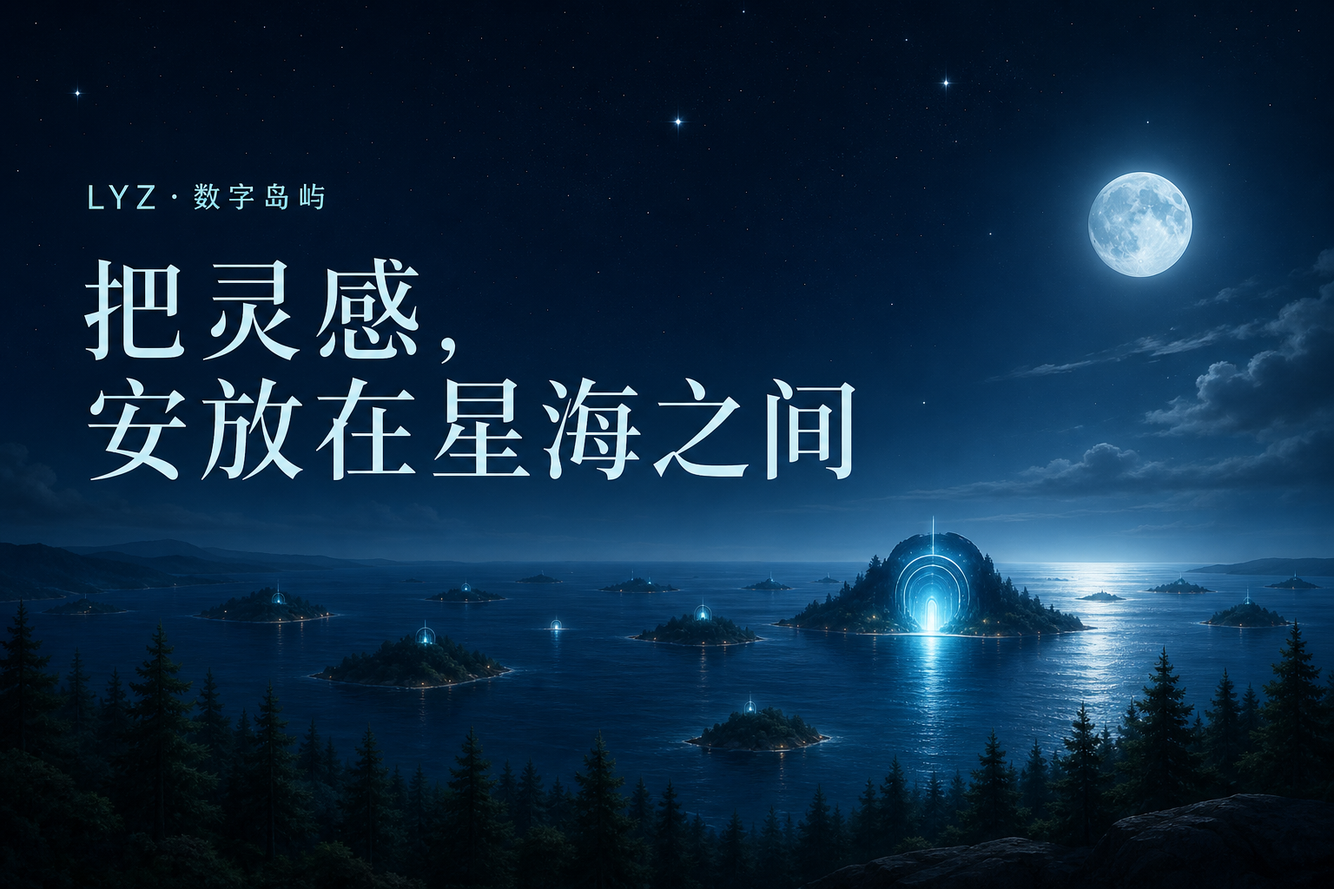
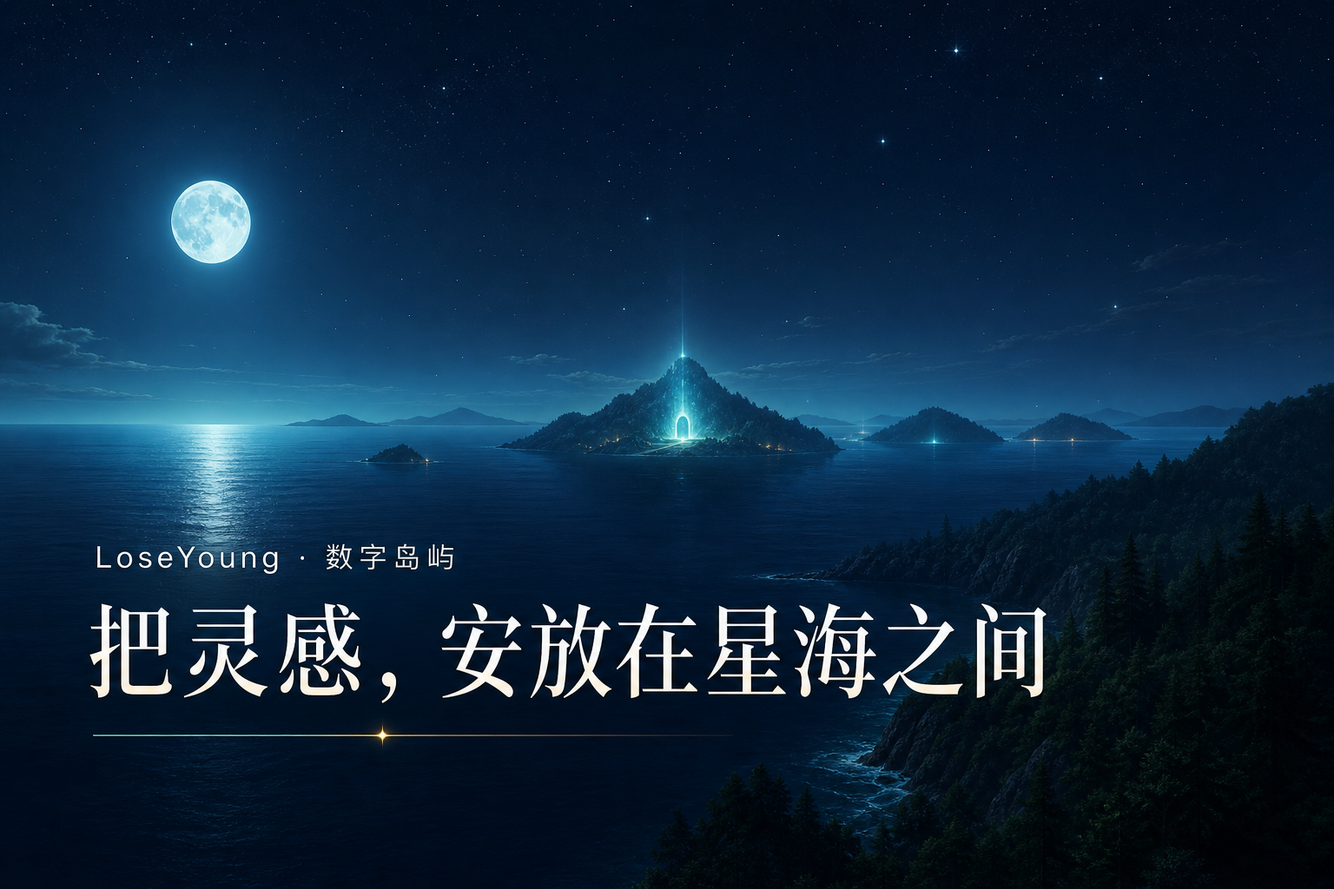
Update LoseYoung branding and readability

diff --git a/app/globals.css b/app/globals.css
@@ -1,16 +1,16 @@
 @import "tailwindcss";
 
-:root{--ink:#edf7f8;--muted:rgba(224,239,240,.62);--faint:rgba(214,232,234,.38);--line:rgba(176,216,221,.16);--cyan:#7ddde8;--gold:#d8c39a;--night:#06111f;--forest:#17352f;--pointer-x:0;--pointer-y:0;color-scheme:dark}
+:root{--ink:#edf7f8;--muted:rgba(224,239,240,.62);--faint:rgba(214,232,234,.55);--line:rgba(176,216,221,.16);--cyan:#7ddde8;--gold:#d8c39a;--night:#06111f;--forest:#17352f;--pointer-x:0;--pointer-y:0;color-scheme:dark}
 *{box-sizing:border-box}html{scroll-behavior:smooth;background:#02070e}body{margin:0;min-width:320px;background:#02070e;color:var(--ink);font-family:"Microsoft YaHei","PingFang SC",system-ui,sans-serif}a{color:inherit}button,input{font:inherit}::selection{color:#041017;background:#a8e5eb}
 main{position:relative;z-index:1;min-height:100vh;overflow:hidden}.ambient{position:fixed;inset:0;z-index:-1;overflow:hidden;pointer-events:none;contain:strict;background:radial-gradient(circle at 75% 22%,rgba(40,130,160,.2),transparent 29%),linear-gradient(180deg,#02060d 0%,#061321 50%,#0a2737 76%,#020a10 100%)}.stars{position:absolute;inset:-8%;background-repeat:repeat;transition:transform .18s linear}.stars-far{opacity:.48;background-image:radial-gradient(circle,#fff 0 1px,transparent 1.4px),radial-gradient(circle,#72c8d7 0 1px,transparent 1.5px);background-size:139px 139px,211px 211px;transform:translate3d(calc(var(--pointer-x) * -4px),calc(var(--pointer-y) * -3px),0)}.stars-near{opacity:.68;background-image:radial-gradient(circle,#fff 0 1.2px,transparent 1.8px),radial-gradient(circle,#d8c39a 0 1px,transparent 1.7px);background-size:277px 277px,337px 337px;background-position:43px 91px,117px 31px;transform:translate3d(calc(var(--pointer-x) * 9px),calc(var(--pointer-y) * 6px),0);animation:twinkle 7s ease-in-out infinite}.moon{position:absolute;top:12%;right:11%;width:min(28vw,420px);aspect-ratio:1;border-radius:50%;background:radial-gradient(circle,rgba(230,246,245,.22) 0 1%,rgba(119,202,214,.08) 22%,transparent 68%);transform:translate3d(calc(var(--pointer-x) * 18px),calc(var(--pointer-y) * 10px),0)}.aurora{position:absolute;width:62vw;height:34vw;border-radius:50%;opacity:.12}.aurora-one{top:-13%;right:-15%;background:radial-gradient(ellipse,rgba(61,177,190,.65),rgba(18,87,118,.18) 45%,transparent 72%);transform:translate3d(calc(var(--pointer-x) * 13px),calc(var(--pointer-y) * 7px),0) rotate(-13deg)}.aurora-two{top:21%;left:-36%;background:radial-gradient(ellipse,rgba(43,139,155,.42),rgba(23,70,95,.11) 48%,transparent 72%);transform:translate3d(calc(var(--pointer-x) * -9px),calc(var(--pointer-y) * -5px),0)}.forest{position:absolute;left:-3%;right:-3%;bottom:14vh;height:27vh;opacity:.82;background:linear-gradient(rgba(1,8,13,.12),rgba(1,6,10,.97));clip-path:polygon(0 100%,0 68%,4% 51%,6% 72%,10% 27%,13% 70%,17% 46%,20% 73%,24% 35%,28% 72%,33% 56%,37% 75%,42% 42%,46% 74%,51% 58%,55% 75%,60% 39%,64% 73%,69% 53%,74% 74%,79% 31%,83% 70%,87% 49%,91% 72%,95% 27%,100% 51%,100% 100%)}.sea{position:absolute;left:-4%;right:-4%;bottom:-2%;height:24vh;overflow:hidden;background:linear-gradient(rgba(26,92,119,.31),rgba(2,13,21,.96));border-top:1px solid rgba(146,211,221,.17)}.sea:before{content:"";position:absolute;inset:0;background:radial-gradient(ellipse at 69% 0,rgba(165,223,229,.28),transparent 27%),repeating-linear-gradient(175deg,transparent 0 18px,rgba(132,198,210,.07) 19px,transparent 21px 35px);transform:translate3d(calc(var(--pointer-x) * 5px),calc(var(--pointer-y) * 2px),0)}.sea i{position:absolute;left:-10%;width:120%;height:34px;border-top:1px solid rgba(164,219,226,.17);border-radius:50%;animation:tide 17s ease-in-out infinite alternate}.sea i:first-child{top:32%}.sea i:last-child{top:68%;opacity:.5;animation-delay:-8s}
-.site-header{width:min(1240px,calc(100% - 48px));min-height:96px;margin:auto;display:grid;grid-template-columns:1fr auto 1fr;align-items:center;border-bottom:1px solid var(--line)}.brand{display:flex;align-items:center;gap:13px;text-decoration:none;width:max-content}.brand>span:last-child{display:grid;gap:2px}.brand strong{font:400 14px "Noto Serif SC","Songti SC",Georgia,serif;letter-spacing:.1em}.brand small{color:rgba(216,231,232,.43);font-size:7px;letter-spacing:.28em}.brand-mark{width:32px;height:25px;border:1px solid rgba(181,222,227,.65);border-radius:50%;transform:rotate(-17deg);position:relative;display:inline-block}.brand-mark i{position:absolute;width:5px;height:5px;border-radius:50%;top:1px;right:1px;background:var(--gold);box-shadow:0 0 12px var(--gold)}.brand-mark.small{width:27px;height:21px}.site-header nav{display:flex;gap:34px}.site-header nav a{color:rgba(232,245,246,.58);font-size:10px;letter-spacing:.12em;text-decoration:none;transition:color .25s}.site-header nav a:hover{color:#fff}.building-status{justify-self:end;display:flex;align-items:center;gap:9px;color:rgba(226,241,242,.58);font-size:9px;letter-spacing:.13em}.building-status i,.live-status i{width:5px;height:5px;border-radius:50%;background:#8ed3c2;box-shadow:0 0 0 5px rgba(86,174,161,.1),0 0 14px #66dec2}
-.hero{width:min(1240px,calc(100% - 48px));min-height:calc(100svh - 96px);margin:auto;padding:clamp(74px,10vh,116px) 0 48px;display:grid;grid-template-columns:minmax(0,1.25fr) minmax(340px,.75fr);align-items:center;gap:clamp(40px,7vw,100px);position:relative}.eyebrow,.section-index{margin:0 0 24px;color:var(--gold);font-size:9px;font-weight:650;letter-spacing:.25em}.eyebrow{display:flex;align-items:center;gap:12px}.eyebrow>i{width:34px;height:1px;background:linear-gradient(90deg,var(--gold),transparent)}.hero h1{margin:0;font:400 clamp(56px,7.2vw,100px)/1.1 "Noto Serif SC","Songti SC",Georgia,serif;letter-spacing:-.055em;text-shadow:0 14px 60px #000}.hero h1 em{display:inline-block;color:transparent;font-style:normal;background:linear-gradient(90deg,#f6f0e4,#b9e4e8 48%,#d8c39a);-webkit-background-clip:text;background-clip:text}.hero-description{max-width:600px;margin:32px 0 0;color:var(--muted);font-size:14px;line-height:2}.hero-actions{margin-top:36px;display:flex;align-items:center;gap:24px;flex-wrap:wrap}.primary-action{min-width:204px;padding:15px 18px;display:inline-flex;align-items:center;justify-content:space-between;border:1px solid rgba(192,225,229,.28);background:rgba(8,27,39,.7);font-size:11px;letter-spacing:.11em;text-decoration:none;transition:transform .25s,border-color .25s,background .25s}.primary-action:hover{transform:translateY(-3px);border-color:var(--gold);background:rgba(15,48,65,.76)}.primary-action span{color:var(--gold);font-size:18px}.secondary-action{display:inline-flex;gap:10px;color:rgba(223,239,240,.53);font-size:10px;letter-spacing:.08em;text-decoration:none}.secondary-action span{color:var(--cyan)}.archipelago{width:min(38vw,470px);aspect-ratio:1;justify-self:end;position:relative;display:grid;place-items:center;transform:translate3d(calc(var(--pointer-x) * 5px),calc(var(--pointer-y) * 4px),0)}.archipelago:before{content:"";position:absolute;inset:9%;border:1px solid rgba(163,211,219,.09);border-radius:50%;background:radial-gradient(circle,rgba(81,179,195,.11),transparent 61%)}.orbit{position:absolute;border:1px solid rgba(147,205,214,.24);border-radius:50%;transform:rotate(-18deg)}.orbit-one{inset:22% 8%}.orbit-two{inset:8% 23%;transform:rotate(29deg)}.orbit i{position:absolute;width:9px;height:9px;border-radius:50%;top:8%;right:12%;background:var(--gold);box-shadow:0 0 20px var(--gold)}.orbit-two i{width:6px;height:6px;top:auto;right:auto;bottom:11%;left:14%;background:var(--cyan);box-shadow:0 0 16px var(--cyan)}.portal-core{width:143px;aspect-ratio:1;display:grid;place-items:center;align-content:center;gap:10px;border:1px solid rgba(178,222,227,.27);border-radius:50%;background:rgba(3,16,26,.71);text-align:center;box-shadow:0 0 70px rgba(68,170,190,.09)}.portal-core span{color:var(--gold);font:italic 400 12px Georgia,serif}.portal-core strong{font:400 11px/1.5 Georgia,serif;letter-spacing:.23em}.coordinate,.map-note{position:absolute;color:rgba(210,231,233,.3);font:8px Georgia,serif;letter-spacing:.18em}.coordinate.north{top:13%;left:27%}.coordinate.east{right:12%;bottom:29%;writing-mode:vertical-rl}.map-note{bottom:11%;left:24%}.scroll-cue{position:absolute;bottom:34px;left:0;display:flex;align-items:center;gap:12px;width:max-content;color:rgba(224,239,240,.42);font-size:9px;letter-spacing:.2em;text-decoration:none}.scroll-cue i{width:34px;height:34px;border:1px solid rgba(194,222,224,.18);border-radius:50%;position:relative}.scroll-cue i:after{content:"";position:absolute;width:4px;height:4px;left:14px;top:10px;border-right:1px solid var(--gold);border-bottom:1px solid var(--gold);transform:rotate(45deg);animation:scroll 2s infinite}
-.section-shell{padding:clamp(88px,10vw,140px) max(24px,calc((100vw - 1240px)/2));position:relative}.projects{background:linear-gradient(rgba(3,12,20,.84),rgba(3,10,16,.97));border-top:1px solid rgba(175,213,218,.12)}.section-heading{min-height:130px;margin-bottom:54px;padding-bottom:28px;display:flex;align-items:end;justify-content:space-between;gap:40px;border-bottom:1px solid var(--line)}.section-heading h2{margin:0;font:400 clamp(46px,6vw,76px)/1 "Noto Serif SC","Songti SC",Georgia,serif;letter-spacing:-.045em}.section-heading>p{max-width:390px;margin:0;color:var(--faint);font-size:12px;line-height:1.9;text-align:right}.project-card{display:grid;grid-template-columns:minmax(0,1.25fr) minmax(330px,.75fr);min-height:520px;border:1px solid rgba(173,211,216,.16);background:#07131d;text-decoration:none;overflow:hidden;transition:transform .35s,border-color .35s}.project-card:hover{transform:translateY(-5px);border-color:rgba(125,221,232,.48)}.project-image{position:relative;overflow:hidden;min-height:430px}.project-image img{width:100%;height:100%;position:absolute;inset:0;object-fit:cover;filter:saturate(.88) contrast(1.03);transition:transform .65s,filter .65s}.project-card:hover .project-image img{transform:scale(1.025);filter:saturate(1.02)}.image-overlay{position:absolute;inset:0;background:linear-gradient(90deg,transparent 60%,rgba(5,17,27,.52)),linear-gradient(0deg,rgba(1,9,15,.4),transparent 40%)}.project-number,.live-status{position:absolute;top:22px;padding:8px 10px;background:rgba(3,13,22,.76);border:1px solid rgba(195,226,230,.19);font-size:8px;letter-spacing:.16em}.project-number{left:22px}.live-status{right:22px;display:flex;align-items:center;gap:8px}.project-content{padding:clamp(36px,5vw,64px);display:flex;flex-direction:column;justify-content:center;background:linear-gradient(135deg,rgba(9,28,41,.98),rgba(3,14,23,.98))}.project-content>p:first-child{margin:0 0 18px;color:var(--gold);font-size:9px;letter-spacing:.22em}.project-content h3{margin:0;font:400 clamp(36px,4.2vw,58px)/1.2 "Noto Serif SC","Songti SC",Georgia,serif}.project-content h3 em{display:block;margin-top:8px;color:rgba(223,238,240,.42);font:italic 400 14px Georgia,serif;letter-spacing:.13em}.project-divider{width:52px;height:1px;margin:28px 0;background:linear-gradient(90deg,var(--cyan),transparent)}.project-description{margin:0;color:rgba(218,235,237,.57);font-size:13px;line-height:1.95}.project-link{margin-top:34px;display:flex;align-items:center;justify-content:space-between;color:#edf7f8;font-size:10px;letter-spacing:.12em}.project-link i{width:42px;height:42px;display:grid;place-items:center;border:1px solid rgba(216,195,154,.35);border-radius:50%;color:var(--gold);font-style:normal;font-size:17px;transition:transform .25s}.project-card:hover .project-link i{transform:rotate(8deg) scale(1.05)}
-.future{background:#030b12}.future-panel{min-height:280px;padding:clamp(32px,5vw,60px);display:grid;grid-template-columns:130px 1fr auto;align-items:center;gap:42px;border:1px dashed rgba(171,211,217,.21);background:linear-gradient(135deg,rgba(8,25,36,.48),rgba(4,15,24,.35))}.future-orbit{width:116px;height:82px;border:1px solid rgba(133,197,208,.28);border-radius:50%;transform:rotate(-14deg);position:relative}.future-orbit i{position:absolute;width:8px;height:8px;right:11px;top:5px;border-radius:50%;background:rgba(216,195,154,.6);box-shadow:0 0 16px rgba(216,195,154,.45)}.future-panel>div:nth-child(2)>p{margin:0 0 12px;color:var(--gold);font-size:8px;letter-spacing:.24em}.future-panel h3{margin:0 0 12px;font:400 clamp(32px,4vw,48px) "Noto Serif SC","Songti SC",Georgia,serif}.future-panel span{color:rgba(218,235,237,.53);font-size:12px}.future-panel small{max-width:210px;color:rgba(205,226,228,.35);font-size:9px;line-height:1.8;text-align:right}
-footer{width:min(1240px,calc(100% - 48px));min-height:160px;margin:auto;display:grid;grid-template-columns:1fr 1fr 1fr;align-items:center;color:rgba(209,229,231,.38);font-size:9px}footer>div{display:flex;align-items:center;gap:12px;color:rgba(238,247,248,.75)}footer p{text-align:center}footer>span{text-align:right;letter-spacing:.12em}
+.site-header{width:min(1240px,calc(100% - 48px));min-height:96px;margin:auto;display:grid;grid-template-columns:1fr auto 1fr;align-items:center;border-bottom:1px solid var(--line)}.brand{display:flex;align-items:center;gap:13px;text-decoration:none;width:max-content}.brand>span:last-child{display:grid;gap:2px}.brand strong{font:400 16px "Noto Serif SC","Songti SC",Georgia,serif;letter-spacing:.1em}.brand small{color:rgba(216,231,232,.6);font-size:9px;letter-spacing:.28em}.brand-mark{width:32px;height:25px;border:1px solid rgba(181,222,227,.65);border-radius:50%;transform:rotate(-17deg);position:relative;display:inline-block}.brand-mark i{position:absolute;width:5px;height:5px;border-radius:50%;top:1px;right:1px;background:var(--gold);box-shadow:0 0 12px var(--gold)}.brand-mark.small{width:27px;height:21px}.site-header nav{display:flex;gap:34px}.site-header nav a{color:rgba(232,245,246,.74);font-size:12px;letter-spacing:.12em;text-decoration:none;transition:color .25s}.site-header nav a:hover{color:#fff}.building-status{justify-self:end;display:flex;align-items:center;gap:9px;color:rgba(226,241,242,.72);font-size:11px;letter-spacing:.13em}.building-status i,.live-status i{width:5px;height:5px;border-radius:50%;background:#8ed3c2;box-shadow:0 0 0 5px rgba(86,174,161,.1),0 0 14px #66dec2}
+.hero{width:min(1240px,calc(100% - 48px));min-height:calc(100svh - 96px);margin:auto;padding:clamp(74px,10vh,116px) 0 48px;display:grid;grid-template-columns:minmax(0,1.25fr) minmax(340px,.75fr);align-items:center;gap:clamp(40px,7vw,100px);position:relative}.eyebrow,.section-index{margin:0 0 24px;color:var(--gold);font-size:11px;font-weight:650;letter-spacing:.25em}.eyebrow{display:flex;align-items:center;gap:12px}.eyebrow>i{width:34px;height:1px;background:linear-gradient(90deg,var(--gold),transparent)}.hero h1{margin:0;font:400 clamp(56px,7.2vw,100px)/1.1 "Noto Serif SC","Songti SC",Georgia,serif;letter-spacing:-.055em;text-shadow:0 14px 60px #000}.hero h1 em{display:inline-block;color:transparent;font-style:normal;background:linear-gradient(90deg,#f6f0e4,#b9e4e8 48%,#d8c39a);-webkit-background-clip:text;background-clip:text}.hero-description{max-width:600px;margin:32px 0 0;color:var(--muted);font-size:16px;line-height:2}.hero-actions{margin-top:36px;display:flex;align-items:center;gap:24px;flex-wrap:wrap}.primary-action{min-width:204px;padding:15px 18px;display:inline-flex;align-items:center;justify-content:space-between;border:1px solid rgba(192,225,229,.28);background:rgba(8,27,39,.7);font-size:13px;letter-spacing:.09em;text-decoration:none;transition:transform .25s,border-color .25s,background .25s}.primary-action:hover{transform:translateY(-3px);border-color:var(--gold);background:rgba(15,48,65,.76)}.primary-action span{color:var(--gold);font-size:18px}.secondary-action{display:inline-flex;gap:10px;color:rgba(223,239,240,.53);font-size:12px;letter-spacing:.06em;text-decoration:none}.secondary-action span{color:var(--cyan)}.archipelago{width:min(38vw,470px);aspect-ratio:1;justify-self:end;position:relative;display:grid;place-items:center;transform:translate3d(calc(var(--pointer-x) * 5px),calc(var(--pointer-y) * 4px),0)}.archipelago:before{content:"";position:absolute;inset:9%;border:1px solid rgba(163,211,219,.09);border-radius:50%;background:radial-gradient(circle,rgba(81,179,195,.11),transparent 61%)}.orbit{position:absolute;border:1px solid rgba(147,205,214,.24);border-radius:50%;transform:rotate(-18deg)}.orbit-one{inset:22% 8%}.orbit-two{inset:8% 23%;transform:rotate(29deg)}.orbit i{position:absolute;width:9px;height:9px;border-radius:50%;top:8%;right:12%;background:var(--gold);box-shadow:0 0 20px var(--gold)}.orbit-two i{width:6px;height:6px;top:auto;right:auto;bottom:11%;left:14%;background:var(--cyan);box-shadow:0 0 16px var(--cyan)}.portal-core{width:143px;aspect-ratio:1;display:grid;place-items:center;align-content:center;gap:10px;border:1px solid rgba(178,222,227,.27);border-radius:50%;background:rgba(3,16,26,.71);text-align:center;box-shadow:0 0 70px rgba(68,170,190,.09)}.portal-core span{color:var(--gold);font:italic 400 12px Georgia,serif}.portal-core strong{font:400 13px/1.5 Georgia,serif;letter-spacing:.23em}.coordinate,.map-note{position:absolute;color:rgba(210,231,233,.48);font:10px Georgia,serif;letter-spacing:.18em}.coordinate.north{top:13%;left:27%}.coordinate.east{right:12%;bottom:29%;writing-mode:vertical-rl}.map-note{bottom:11%;left:24%}.scroll-cue{position:absolute;bottom:34px;left:0;display:flex;align-items:center;gap:12px;width:max-content;color:rgba(224,239,240,.6);font-size:11px;letter-spacing:.2em;text-decoration:none}.scroll-cue i{width:34px;height:34px;border:1px solid rgba(194,222,224,.18);border-radius:50%;position:relative}.scroll-cue i:after{content:"";position:absolute;width:4px;height:4px;left:14px;top:10px;border-right:1px solid var(--gold);border-bottom:1px solid var(--gold);transform:rotate(45deg);animation:scroll 2s infinite}
+.section-shell{padding:clamp(88px,10vw,140px) max(24px,calc((100vw - 1240px)/2));position:relative}.projects{background:linear-gradient(rgba(3,12,20,.84),rgba(3,10,16,.97));border-top:1px solid rgba(175,213,218,.12)}.section-heading{min-height:130px;margin-bottom:54px;padding-bottom:28px;display:flex;align-items:end;justify-content:space-between;gap:40px;border-bottom:1px solid var(--line)}.section-heading h2{margin:0;font:400 clamp(46px,6vw,76px)/1 "Noto Serif SC","Songti SC",Georgia,serif;letter-spacing:-.045em}.section-heading>p{max-width:390px;margin:0;color:var(--faint);font-size:14px;line-height:1.9;text-align:right}.project-card{display:grid;grid-template-columns:minmax(0,1.25fr) minmax(330px,.75fr);min-height:520px;border:1px solid rgba(173,211,216,.16);background:#07131d;text-decoration:none;overflow:hidden;transition:transform .35s,border-color .35s}.project-card:hover{transform:translateY(-5px);border-color:rgba(125,221,232,.48)}.project-image{position:relative;overflow:hidden;min-height:430px}.project-image img{width:100%;height:100%;position:absolute;inset:0;object-fit:cover;filter:saturate(.88) contrast(1.03);transition:transform .65s,filter .65s}.project-card:hover .project-image img{transform:scale(1.025);filter:saturate(1.02)}.image-overlay{position:absolute;inset:0;background:linear-gradient(90deg,transparent 60%,rgba(5,17,27,.52)),linear-gradient(0deg,rgba(1,9,15,.4),transparent 40%)}.project-number,.live-status{position:absolute;top:22px;padding:8px 10px;background:rgba(3,13,22,.76);border:1px solid rgba(195,226,230,.19);font-size:10px;letter-spacing:.13em}.project-number{left:22px}.live-status{right:22px;display:flex;align-items:center;gap:8px}.project-content{padding:clamp(36px,5vw,64px);display:flex;flex-direction:column;justify-content:center;background:linear-gradient(135deg,rgba(9,28,41,.98),rgba(3,14,23,.98))}.project-content>p:first-child{margin:0 0 18px;color:var(--gold);font-size:11px;letter-spacing:.18em}.project-content h3{margin:0;font:400 clamp(36px,4.2vw,58px)/1.2 "Noto Serif SC","Songti SC",Georgia,serif}.project-content h3 em{display:block;margin-top:8px;color:rgba(223,238,240,.42);font:italic 400 14px Georgia,serif;letter-spacing:.13em}.project-divider{width:52px;height:1px;margin:28px 0;background:linear-gradient(90deg,var(--cyan),transparent)}.project-description{margin:0;color:rgba(218,235,237,.7);font-size:15px;line-height:1.95}.project-link{margin-top:34px;display:flex;align-items:center;justify-content:space-between;color:#edf7f8;font-size:12px;letter-spacing:.12em}.project-link i{width:42px;height:42px;display:grid;place-items:center;border:1px solid rgba(216,195,154,.35);border-radius:50%;color:var(--gold);font-style:normal;font-size:17px;transition:transform .25s}.project-card:hover .project-link i{transform:rotate(8deg) scale(1.05)}
+.future{background:#030b12}.future-panel{min-height:280px;padding:clamp(32px,5vw,60px);display:grid;grid-template-columns:130px 1fr auto;align-items:center;gap:42px;border:1px dashed rgba(171,211,217,.21);background:linear-gradient(135deg,rgba(8,25,36,.48),rgba(4,15,24,.35))}.future-orbit{width:116px;height:82px;border:1px solid rgba(133,197,208,.28);border-radius:50%;transform:rotate(-14deg);position:relative}.future-orbit i{position:absolute;width:8px;height:8px;right:11px;top:5px;border-radius:50%;background:rgba(216,195,154,.6);box-shadow:0 0 16px rgba(216,195,154,.45)}.future-panel>div:nth-child(2)>p{margin:0 0 12px;color:var(--gold);font-size:11px;letter-spacing:.2em}.future-panel h3{margin:0 0 12px;font:400 clamp(32px,4vw,48px) "Noto Serif SC","Songti SC",Georgia,serif}.future-panel span{color:rgba(218,235,237,.68);font-size:14px}.future-panel small{max-width:210px;color:rgba(205,226,228,.55);font-size:11px;line-height:1.8;text-align:right}
+footer{width:min(1240px,calc(100% - 48px));min-height:160px;margin:auto;display:grid;grid-template-columns:1fr 1fr 1fr;align-items:center;color:rgba(209,229,231,.58);font-size:11px}footer>div{display:flex;align-items:center;gap:12px;color:rgba(238,247,248,.75)}footer p{text-align:center}footer>span{text-align:right;letter-spacing:.12em}
 a:focus-visible{outline:2px solid #92dbe4;outline-offset:5px}
 @keyframes twinkle{50%{opacity:.95}}@keyframes tide{to{transform:translate(3%,8px)}}@keyframes scroll{to{transform:translateY(9px) rotate(45deg);opacity:0}}
 @media(max-width:920px){.site-header{grid-template-columns:1fr auto}.site-header nav{display:none}.hero{grid-template-columns:1fr;align-content:center;padding-bottom:92px}.archipelago{position:absolute;right:-20%;width:55vw;opacity:.43}.hero-copy{position:relative;z-index:1}.project-card{grid-template-columns:1fr}.project-image{min-height:430px}.future-panel{grid-template-columns:100px 1fr}.future-panel small{grid-column:2;text-align:left}.future-orbit{width:92px}}
-@media(max-width:620px){.site-header,.hero,footer{width:calc(100% - 30px)}.site-header{min-height:78px}.brand small,.building-status{display:none}.hero{min-height:calc(100svh - 78px);padding-top:62px}.hero h1{font-size:clamp(47px,14vw,70px);line-height:1.16}.hero-description{font-size:13px}.hero-actions{align-items:flex-start;flex-direction:column;gap:17px}.primary-action{width:100%}.archipelago{right:-42%;width:82vw}.scroll-cue{bottom:24px}.section-shell{padding-left:15px;padding-right:15px}.section-heading{min-height:auto;margin-bottom:34px;align-items:flex-start;flex-direction:column;gap:20px}.section-heading h2{font-size:48px}.section-heading>p{text-align:left}.project-card{min-height:0}.project-image{min-height:280px}.image-overlay{background:linear-gradient(0deg,rgba(3,14,23,.45),transparent 55%)}.project-content{padding:34px 24px}.future-panel{padding:34px 22px;grid-template-columns:1fr;gap:25px}.future-panel small{grid-column:auto}.future-orbit{width:85px;height:60px}footer{min-height:200px;grid-template-columns:1fr;justify-items:start;align-content:center;gap:13px}footer p,footer>span{text-align:left}.moon{right:-18%;width:70vw}.aurora{width:100vw;height:70vw}}
+@media(max-width:620px){.site-header,.hero,footer{width:calc(100% - 30px)}.site-header{min-height:78px}.brand small,.building-status{display:none}.hero{min-height:calc(100svh - 78px);padding-top:62px}.hero h1{font-size:clamp(47px,14vw,70px);line-height:1.16}.hero-description{font-size:15px}.hero-actions{align-items:flex-start;flex-direction:column;gap:17px}.primary-action{width:100%}.archipelago{right:-42%;width:82vw}.scroll-cue{bottom:24px}.section-shell{padding-left:15px;padding-right:15px}.section-heading{min-height:auto;margin-bottom:34px;align-items:flex-start;flex-direction:column;gap:20px}.section-heading h2{font-size:48px}.section-heading>p{text-align:left}.project-card{min-height:0}.project-image{min-height:280px}.image-overlay{background:linear-gradient(0deg,rgba(3,14,23,.45),transparent 55%)}.project-content{padding:34px 24px}.future-panel{padding:34px 22px;grid-template-columns:1fr;gap:25px}.future-panel small{grid-column:auto}.future-orbit{width:85px;height:60px}footer{min-height:200px;grid-template-columns:1fr;justify-items:start;align-content:center;gap:13px}footer p,footer>span{text-align:left}.moon{right:-18%;width:70vw}.aurora{width:100vw;height:70vw}}
 @media(pointer:coarse),(update:slow){.stars,.moon,.aurora,.archipelago,.sea:before{transform:none!important}.stars-near,.sea i{animation:none}}
 @media(prefers-reduced-motion:reduce){html{scroll-behavior:auto}*,*:before,*:after{animation-duration:.01ms!important;animation-iteration-count:1!important;transition-duration:.01ms!important}.stars,.moon,.aurora,.archipelago,.sea:before{transform:none!important}}

diff --git a/app/page.tsx b/app/page.tsx
@@ -40,7 +40,7 @@ export default function Home() {
       <header className="site-header">
         <a className="brand" href="#top" aria-label="返回门户首页">
           <span className="brand-mark"><i /></span>
-          <span><strong>LYZ · 数字岛屿</strong><small>DIGITAL ARCHIPELAGO</small></span>
+          <span><strong>LoseYoung · 数字岛屿</strong><small>DIGITAL ARCHIPELAGO</small></span>
         </a>
         <nav aria-label="主导航">
           <a href="#projects">正在运行</a>
@@ -106,8 +106,8 @@ export default function Home() {
       </section>
 
       <footer>
-        <div><span className="brand-mark small"><i /></span><strong>LYZ · 数字岛屿</strong></div>
-        <p>© 2026 LYZ · Built quietly between stars and tides.</p>
+        <div><span className="brand-mark small"><i /></span><strong>LoseYoung · 数字岛屿</strong></div>
+        <p>© 2026 LoseYoung · Built quietly between stars and tides.</p>
         <span>星海未眠，创造继续。</span>
       </footer>
     </main>

diff --git a/app/layout.tsx b/app/layout.tsx
@@ -2,7 +2,7 @@ import type { Metadata } from "next";
 import { headers } from "next/headers";
 import "./globals.css";
 
-const title = "LYZ · 数字岛屿";
+const title = "LoseYoung · 数字岛屿";
 const description = "汇集正在创造与维护的网页，在星海之间探索每一座数字岛屿。";
 
 export async function generateMetadata(): Promise<Metadata> {
@@ -13,7 +13,7 @@ export async function generateMetadata(): Promise<Metadata> {
   return {
     title,
     description,
-    openGraph: { title, description, type: "website", images: [{ url: `${origin}/og.png`, width: 1536, height: 1024, alt: "LYZ 数字岛屿门户" }] },
+    openGraph: { title, description, type: "website", images: [{ url: `${origin}/og.png`, width: 1536, height: 1024, alt: "LoseYoung 数字岛屿门户" }] },
     twitter: { card: "summary_large_image", title, description, images: [`${origin}/og.png`] },
   };
 }
